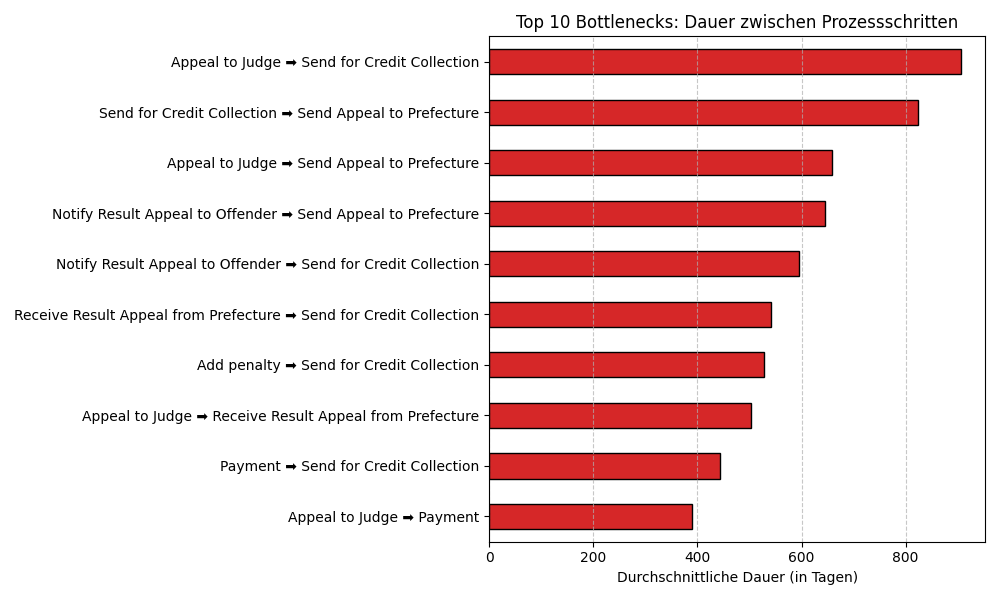
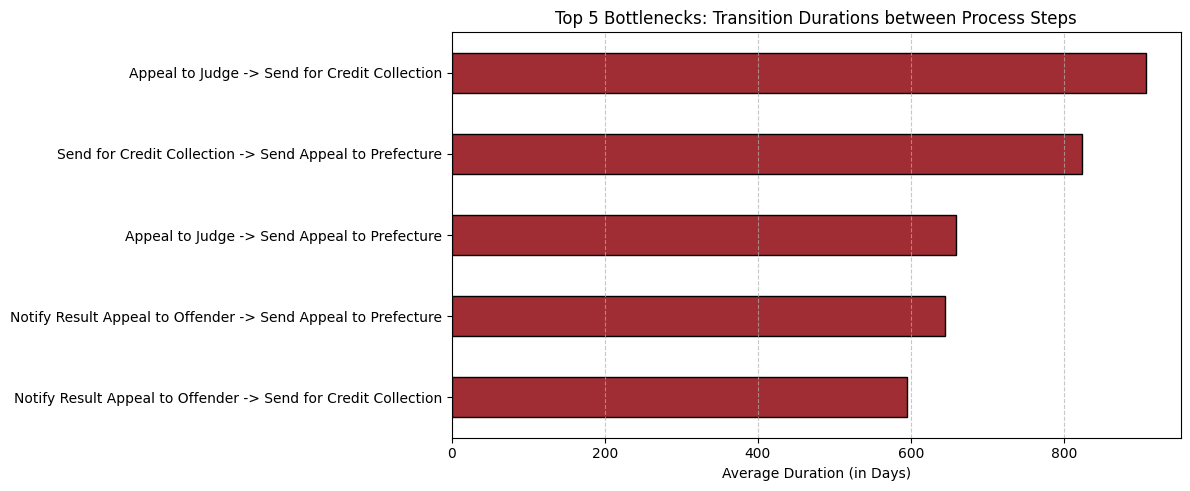
added styling to discovery model

diff --git a/src/discovery.py b/src/discovery.py
@@ -3,57 +3,92 @@ import matplotlib.pyplot as plt
 import os
 
 def main():
-    print("Starte Process Discovery (Task 4)...")
+    print("Starting Extended Process Discovery (Tasks 3 & 4)...")
     
-    # 1. Daten laden
+    # 1. Load data
     df = pd.read_pickle("data/processed/df_raw.pkl")
     
-    # Ordner für die Diagramme erstellen
+    # Create directory for plots
     save_dir = 'models/discovery'
     os.makedirs(save_dir, exist_ok=True)
     
-    # --- A) TIME-RELATED PERFORMANCE (Bottleneck Analyse) ---
-    print("Berechne Bottlenecks (Übergangszeiten)...")
-    
-    # Wir sortieren nach Fall und Zeit
+    # Sort by case and timestamp for sequential analysis
     df_sorted = df.sort_values(by=['case:concept:name', 'time:timestamp']).copy()
     
-    # Wir holen uns die jeweils nächste Aktivität und deren Zeitstempel
+    # --- A) TIME-RELATED PERFORMANCE (Top 5 Bottlenecks) ---
+    print("1. Calculating Top 5 Bottlenecks...")
     df_sorted['next_time'] = df_sorted.groupby('case:concept:name')['time:timestamp'].shift(-1)
     df_sorted['next_act'] = df_sorted.groupby('case:concept:name')['concept:name'].shift(-1)
     
-    # Dauer in Tagen berechnen
+    # Calculate transition time in days
     df_sorted['transition_time_days'] = (df_sorted['next_time'] - df_sorted['time:timestamp']).dt.total_seconds() / (24 * 3600)
     
-    # Übergänge definieren (z.B. "Create Fine -> Send Fine")
     transitions = df_sorted.dropna(subset=['next_act']).copy()
-    transitions['transition_name'] = transitions['concept:name'] + ' ➡ ' + transitions['next_act']
+    transitions['transition_name'] = transitions['concept:name'] + ' -> ' + transitions['next_act']
     
-    # Durchschnittliche Dauer pro Übergang berechnen
-    avg_transitions = transitions.groupby('transition_name')['transition_time_days'].mean().sort_values(ascending=False).head(10)
+    # Aggregate and filter for top 5 bottlenecks
+    avg_transitions = transitions.groupby('transition_name')['transition_time_days'].mean().sort_values(ascending=False).head(5)
     
-    # Plot: Top 10 Bottlenecks
-    plt.figure(figsize=(10, 6))
-    avg_transitions.plot(kind='barh', color='#d62728', edgecolor='black')
-    plt.title('Top 10 Bottlenecks: Dauer zwischen Prozessschritten')
-    plt.xlabel('Durchschnittliche Dauer (in Tagen)')
+    plt.figure(figsize=(12, 5))
+    avg_transitions.plot(kind='barh', color='#a02c34', edgecolor='black')
+    plt.title('Top 5 Bottlenecks: Transition Durations between Process Steps')
+    plt.xlabel('Average Duration (in Days)')
     plt.ylabel('')
-    plt.gca().invert_yaxis() # Längster Balken nach oben
+    plt.gca().invert_yaxis()
     plt.grid(axis='x', linestyle='--', alpha=0.7)
     plt.tight_layout()
-    plt.savefig(f"{save_dir}/bottlenecks.png")
+    plt.savefig(f"{save_dir}/bottlenecks.png", bbox_inches='tight')
     plt.close()
+
+    # --- B) TOTAL CASE DURATIONS ---
+    print("2. Calculating Total Case Durations...")
+    case_durations = df_sorted.groupby('case:concept:name').agg(
+        start=('time:timestamp', 'min'),
+        end=('time:timestamp', 'max')
+    )
+    case_durations['total_days'] = (case_durations['end'] - case_durations['start']).dt.total_seconds() / (24 * 3600)
     
-    # --- B) ORGANIZATIONAL PERSPECTIVE ---
-    print("Prüfe Organisations-Perspektive...")
-    if 'org:resource' in df.columns:
-        print("Ressourcen gefunden. (Könnte hier geplottet werden)")
-    else:
-        # Datensatz enthält keine Ressourcen, wir speichern eine Info ab
+    plt.figure(figsize=(12, 5))
+    # Filter out extreme outliers (> 2 years) for better visualization
+    plt.hist(case_durations['total_days'][case_durations['total_days'] < 730], bins=30, color='#a02c34', edgecolor='black', alpha=0.7)
+    plt.title('Distribution of Total Case Durations (Cases < 2 Years)')
+    plt.xlabel('Total Duration (in Days)')
+    plt.ylabel('Number of Cases')
+    plt.grid(axis='y', linestyle='--', alpha=0.7)
+    plt.tight_layout()
+    plt.savefig(f"{save_dir}/case_durations.png", bbox_inches='tight')
+    plt.close()
+
+    # --- C) PROCESS COMPLEXITY (Top 5 Variants - Full Paths) ---
+    print("3. Analyzing Top 5 Process Variants...")
+    # Concatenate activities per case into a full text chain
+    variants = df_sorted.groupby('case:concept:name')['concept:name'].apply(lambda x: " -> ".join(x)).reset_index()
+    top_variants = variants['concept:name'].value_counts().head(5)
+    
+    # We use the full label names now (no truncation) to ensure full paths are recognizable
+    full_labels = list(top_variants.index)
+    
+    # Increased figure width to 16 to accommodate long process paths on the Y-axis
+    plt.figure(figsize=(16, 6))
+    plt.barh(full_labels, top_variants.values, color="#a02c34", edgecolor='black', alpha=0.8)
+    plt.title('Top 5 Process Variants (Frequency Distribution)')
+    plt.xlabel('Number of Cases')
+    plt.ylabel('')
+    plt.gca().invert_yaxis()
+    plt.grid(axis='x', linestyle='--', alpha=0.7)
+    
+    # tight_layout and bbox_inches='tight' ensure the long text isn't cut off at the edge of the image
+    plt.tight_layout()
+    plt.savefig(f"{save_dir}/top_variants.png", bbox_inches='tight')
+    plt.close()
+
+    # --- D) ORGANIZATIONAL PERSPECTIVE ---
+    print("4. Checking Organizational Perspective...")
+    if 'org:resource' not in df.columns:
         with open(f"{save_dir}/org_info.txt", "w") as f:
-            f.write("Limitation: Der 4TU Road Traffic Fines Datensatz enthält keine Spalte für 'org:resource' (Mitarbeiter/Systeme). Eine organisatorische Mining-Analyse ist daher mit diesen Rohdaten nicht durchführbar.")
+            f.write("Limitation: The 4TU Road Traffic Fines dataset does not contain an 'org:resource' column.")
             
-    print("✅ Process Discovery Diagramme gespeichert!")
+    print("✅ All materials for the preliminary presentation successfully saved in 'models/discovery/'!")
 
 if __name__ == "__main__":
     main()

diff --git a/src/evaluate.py b/src/evaluate.py
@@ -35,7 +35,7 @@ def main():
     plt.savefig("models/shap_summary.png", bbox_inches='tight')
     print("✅ SHAP Plot gespeichert.")
 
-    # 2. CONFORMANCE CHECKING & PETRI-NETZ EXPORT
+   # 2. CONFORMANCE CHECKING & PETRI-NETZ EXPORT
     print("\n2. Starte Conformance Checking & Process Discovery...")
     df = pd.read_pickle("data/processed/df_raw.pkl")
     
@@ -43,11 +43,31 @@ def main():
     happy_path_log = pm4py.filter_variants_top_k(df, 10)
     net, initial_marking, final_marking = pm4py.discover_petri_net_inductive(happy_path_log)
     
-    petri_path = "models/discovery/petri_net.png"
-    pm4py.save_vis_petri_net(net, initial_marking, final_marking, petri_path)
-    print(f"✅ Petri-Netz exportiert nach: {petri_path}")
+    # --- FARBLICHE ABSTIMMUNG AUF DAS DESIGN-SCHEMA (#a02c34) ---
+    from pm4py.visualization.petri_net import visualizer as pn_visualizer
     
-    # Fitness berechnen
+    # Generiere das standardmäßige Graphviz-Objekt
+    gviz = pn_visualizer.apply(net, initial_marking, final_marking)
+    
+    # Farben und Styles an das neue Corporate Design anpassen
+    gviz.graph_attr['rankdir'] = 'LR'  # Übersichtliches Layout von links nach rechts
+    gviz.graph_attr['bgcolor'] = 'transparent'  # Transparenter Hintergrund für Präsentationen
+    
+    # Knoten-Styles (Places und Transitions)
+    gviz.node_attr['color'] = '#a02c34'       # Randfarbe der Knoten
+    gviz.node_attr['fontcolor'] = '#a02c34'   # Textfarbe innerhalb der Knoten
+    gviz.node_attr['fontname'] = 'Arial'      # Moderne, saubere Schriftart
+    
+    # Kanten-Styles (Die Verbindungs-Pfeile)
+    gviz.edge_attr['color'] = '#a02c34'       # Farbe der Pfeile
+    gviz.edge_attr['fontname'] = 'Arial'
+    
+    # Speicher-Pfad definieren und visualisiertes Petri-Netz exportieren
+    petri_path = "models/discovery/petri_net.png"
+    pn_visualizer.save(gviz, petri_path)
+    print(f"✅ Color-coordinated Petri Net exported to: {petri_path}")
+    
+    # Fitness berechnen (Unverändert)
     sample_cases = df['case:concept:name'].drop_duplicates().sample(2000, random_state=42)
     real_world_sample = df[df['case:concept:name'].isin(sample_cases)]
     fitness = pm4py.fitness_token_based_replay(real_world_sample, net, initial_marking, final_marking)
